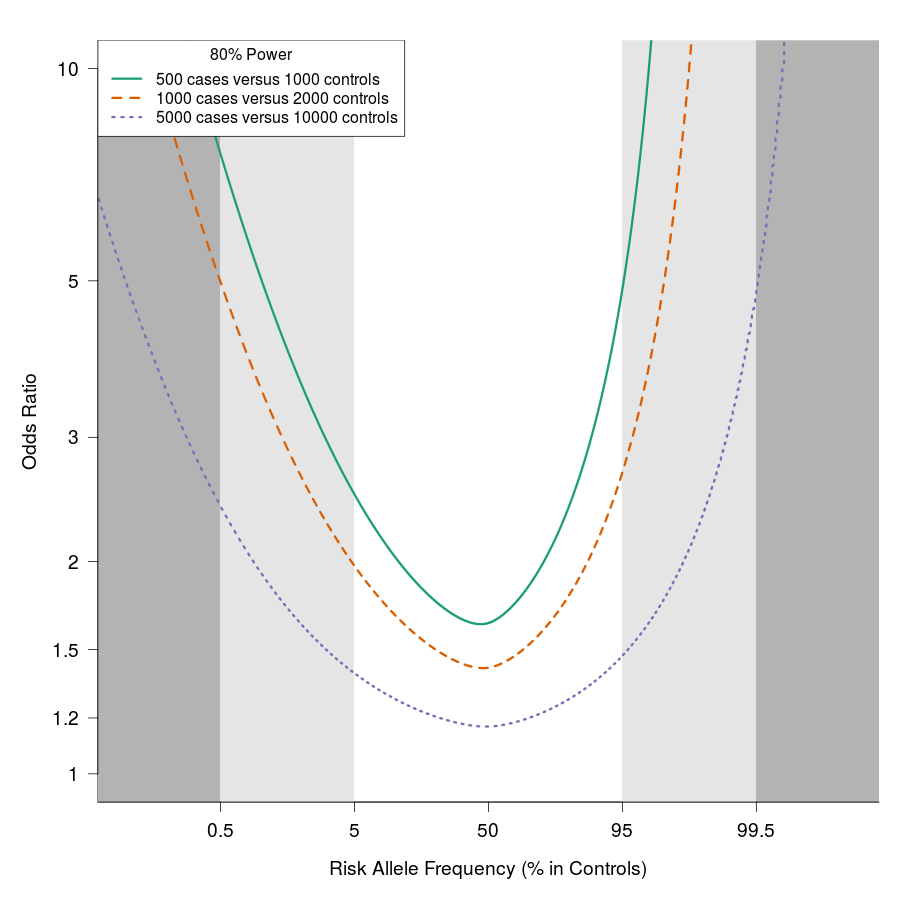
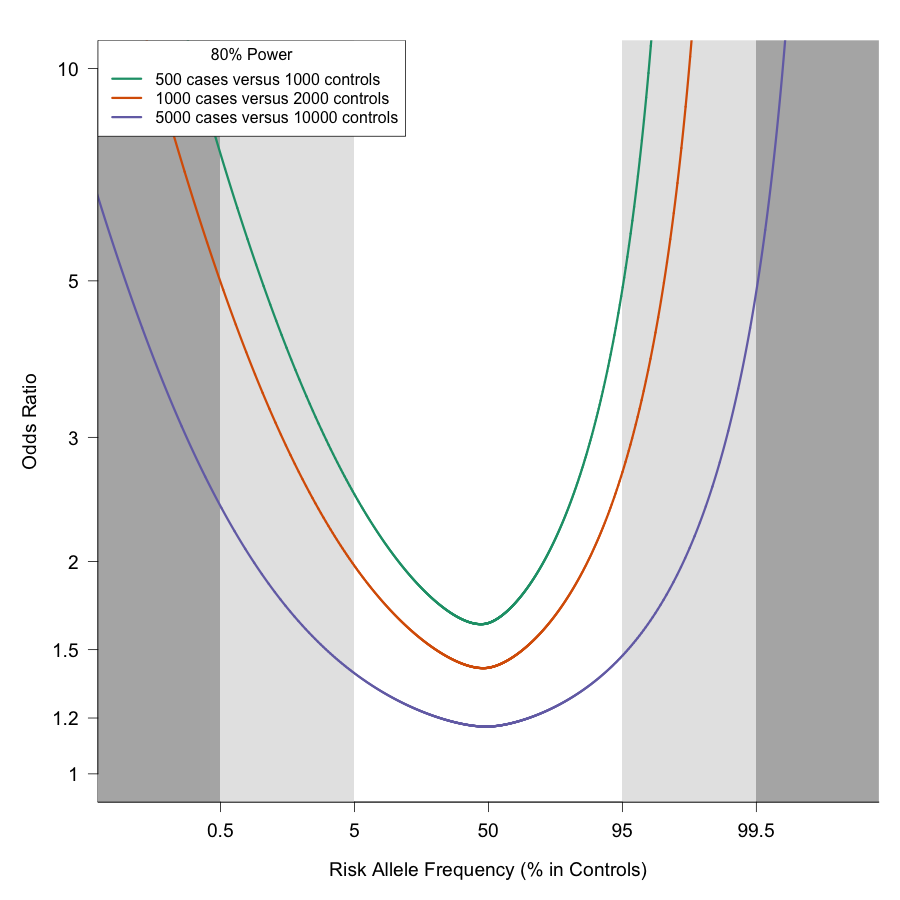
Update smoke tests and documentation for quantitative power analysis support

diff --git a/README.md b/README.md
@@ -8,7 +8,7 @@ Standalone R scripts for common GWAS plotting tasks:
 | --- | --- | --- |
 | `QQplot.r` | Frequency-binned QQ plot from allele frequency and p-value columns. | `<prefix>_QQ.png` |
 | `ManhattanPlot.r` | Manhattan plot with adaptive thinning, candidate-region detection, and optional nearest-gene peak labels. | `<prefix>_Manhattan.png` |
-| `PowerPlot.r` | 80% power curves for case-control sample sizes. | `<prefix>_PowerAnalysis.png` |
+| `PowerPlot.r` | 80% power curves for binary case-control or quantitative traits. | `<prefix>_PowerAnalysis.png` |
 
 Run each script with `--help` for the full option reference:
 
@@ -20,7 +20,7 @@ Rscript PowerPlot.r --help
 
 ## Installation
 
-Install R, the runtime packages, and `remotes` for the GitHub-only dependency:
+Install R and the runtime packages:
 
 ```r
 install.packages(c(
@@ -28,14 +28,16 @@ install.packages(c(
   "data.table",
   "RColorBrewer",
   "plotrix",
-  "pwr",
-  "remotes"
+  "pwr"
 ))
-
-remotes::install_github("JosephCrispell/basicPlotteR")
 ```
 
-`Map2NCBI` is optional. It is needed only for Manhattan nearest-gene labels with `--labelPeaks T`.
+`Map2NCBI` and `basicPlotteR` are optional. They are needed only for Manhattan nearest-gene labels with `--labelPeaks T`. `basicPlotteR` is installed from GitHub:
+
+```r
+install.packages("remotes")
+remotes::install_github("JosephCrispell/basicPlotteR")
+```
 
 Nearest-gene reference files are not downloaded by default. If labeling is enabled, `ManhattanPlot.r` looks for `data/gene_positions/ExonList_<build>.txt` beside `ManhattanPlot.r`, or for the file supplied with `--gene_table`. The `data/gene_positions/` cache is ignored by git and is created only when `--allow_gene_download T` is used.
 
@@ -65,6 +67,13 @@ Rscript PowerPlot.r \
   --prefix tmp/examples/power \
   --cases 500,1000,5000 \
   --controls 1000,2000,10000 \
+  --minMAF 0.001 \
+  --alpha 5E-8
+
+Rscript PowerPlot.r \
+  --trait_type quantitative \
+  --prefix tmp/examples/quantitative_power \
+  --samples 1000,5000,10000 \
   --minMAF 0.001 \
   --alpha 5E-8
 ```
@@ -138,6 +147,12 @@ Rscript ManhattanPlot.r \
 ```
 
 Downloads for missing gene tables occur only when `--allow_gene_download T` is provided.
+
+## Power Notes
+
+`PowerPlot.r` keeps binary case-control power as the default. Binary curves plot the odds ratio needed for 80% power against risk allele frequency in controls, or overall risk allele frequency when `--raf.controls F` is used.
+
+For quantitative traits, use `--trait_type quantitative` and provide total sample sizes with `--samples`. Quantitative curves plot the absolute per-allele beta needed for 80% power against effect allele frequency. By default, beta is shown in phenotype standard deviation units. Use `--trait_sd` to scale beta to raw trait units, and `--covariates` to account for model covariates in the denominator degrees of freedom.
 
 ## Example Outputs
 

diff --git a/tests/README.md b/tests/README.md
@@ -8,7 +8,7 @@ Run:
 scripts/smoke_tests.sh
 ```
 
-The script uses synthetic fixtures from `tests/fixtures/`, runs each `Rscript --help` command, generates one QQ plot, one Manhattan plot, and one power plot in a temporary directory, and checks that each expected PNG exists and is non-empty.
+The script uses synthetic fixtures from `tests/fixtures/`, runs each `Rscript --help` command, generates QQ, Manhattan, binary power, and quantitative power plots in a temporary directory, and checks that each expected PNG exists and is non-empty.
 
 It also checks adversarial synthetic cases:
 
@@ -20,5 +20,6 @@ It also checks adversarial synthetic cases:
 - unsupported contig labels fail clearly.
 - nearest-gene labeling reads the ignored `data/gene_positions/` cache by default and does not create or download references unless explicitly enabled.
 - invalid power-plot sample-size vectors fail clearly.
+- invalid quantitative power degrees of freedom fail clearly.
 
 The fixtures are intentionally tiny and non-sensitive. Do not add real GWAS, genetic, phenotype, clinical, or PHI-like data to this directory.
